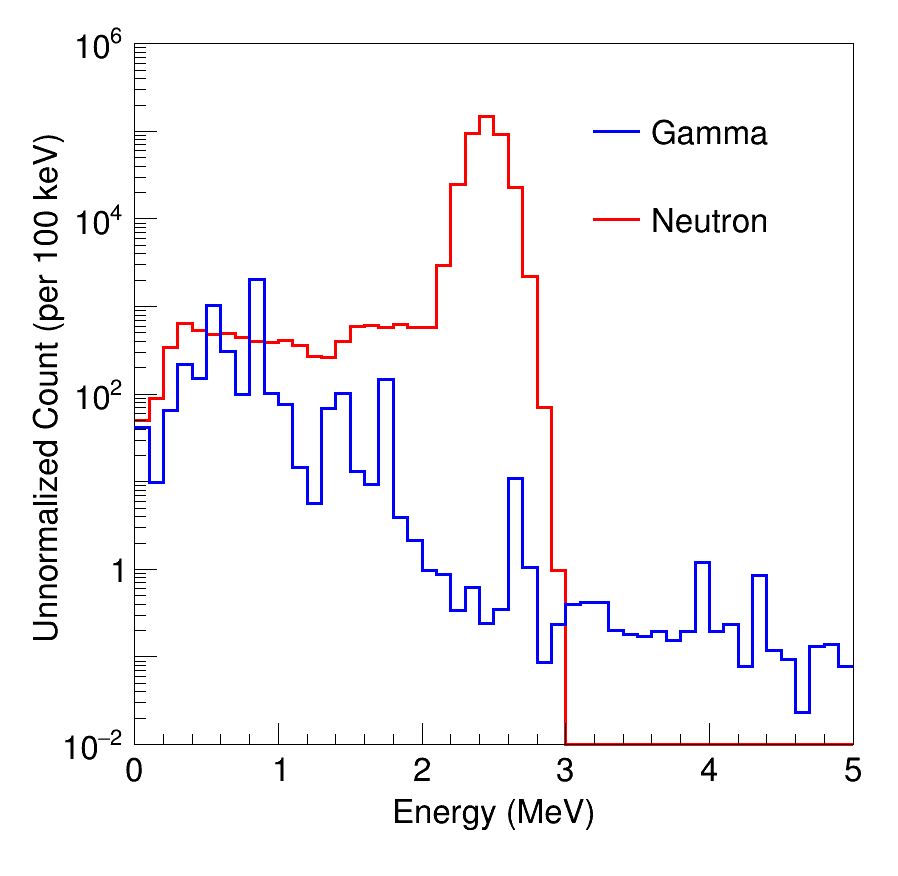
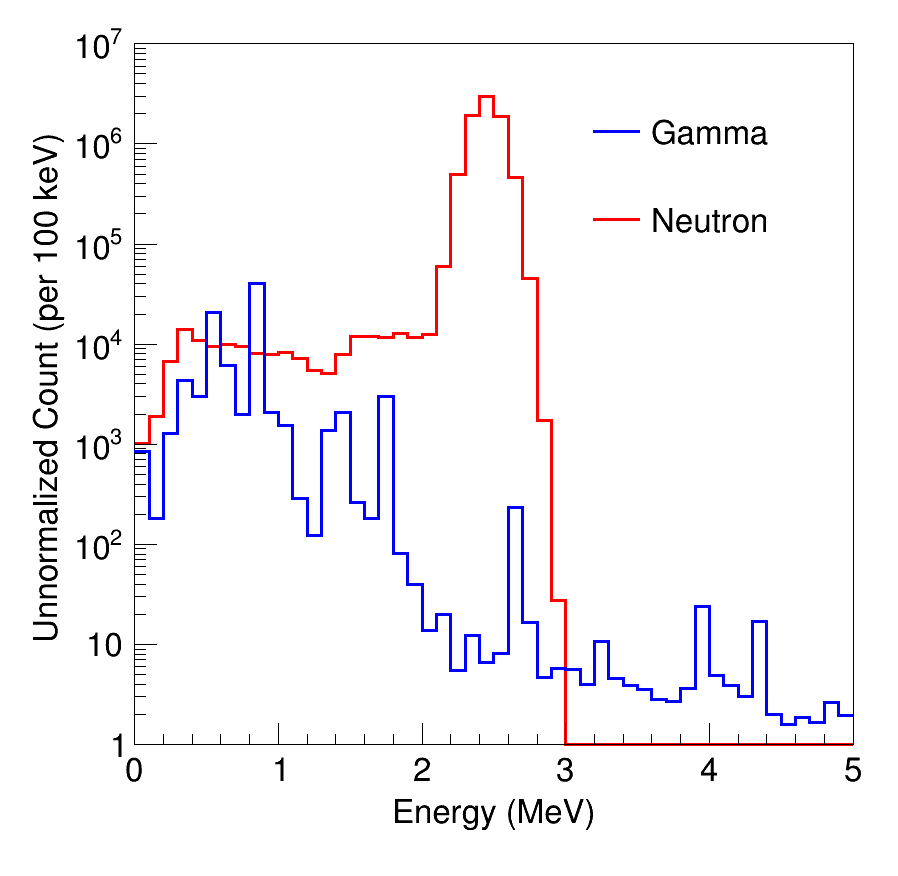
update  ana script

diff --git a/neutronAna/neutronInput/neutron.C b/neutronAna/neutronInput/neutron.C
@@ -1,27 +1,31 @@
 void neutron() {
-    auto file = TFile::Open(Form("Neutron.root"), "READ");
-    auto tree = (TTree*) file->Get("NeutronNTuple");
+//    auto file = TFile::Open(Form("Neutron.root"), "READ");
+//    auto tree = (TTree*) file->Get("NeutronNTuple");
+//
+//
+//    TH1D* ShieldedNeutrons = new TH1D(Form("NeutronSpectrum"), ";Energy (MeV); Unnormalized Count (per 100 keV)", 50, 0, 5);
+//    TH1D* ShieldedGammas = new TH1D(Form("GammaSpectrum"), ";Energy (MeV); Unnormalized Count (per 100 keV)", 50, 0, 5);
+//
+//    double pdgCode;
+//    double energy;
+//    double weight;
+//    tree->SetBranchAddress("PDGCode", &pdgCode);
+//    tree->SetBranchAddress("Energy", &energy);
+//    tree->SetBranchAddress("Weight", &weight);
+//    for (int i = 0; i < tree->GetEntries(); ++i) {
+//        tree->GetEntry(i);
+//        if (pdgCode == 2112) {
+//            ShieldedNeutrons->Fill(energy, weight);
+//        } else if (pdgCode == 22) {
+//            ShieldedGammas->Fill(energy, weight);
+//        } else {
+//            continue;
+//        }
+//    }
 
-
-    TH1D* ShieldedNeutrons = new TH1D(Form("NeutronSpectrum"), ";Energy (MeV); Unnormalized Count (per 100 keV)", 50, 0, 5);
-    TH1D* ShieldedGammas = new TH1D(Form("GammaSpectrum"), ";Energy (MeV); Unnormalized Count (per 100 keV)", 50, 0, 5);
-
-    double pdgCode;
-    double energy;
-    double weight;
-    tree->SetBranchAddress("PDGCode", &pdgCode);
-    tree->SetBranchAddress("Energy", &energy);
-    tree->SetBranchAddress("Weight", &weight);
-    for (int i = 0; i < tree->GetEntries(); ++i) {
-        tree->GetEntry(i);
-        if (pdgCode == 2112) {
-            ShieldedNeutrons->Fill(energy, weight);
-        } else if (pdgCode == 22) {
-            ShieldedGammas->Fill(energy, weight);
-        } else {
-            continue;
-        }
-    }
+    TFile* file = TFile::Open(Form("Out.root"), "READ");
+    TH1D* ShieldedNeutrons = (TH1D*) file->Get("NeutronSpectrum");
+    TH1D* ShieldedGammas = (TH1D*) file->Get("GammaSpectrum");
 
     gStyle->SetOptStat(0);
 
@@ -41,7 +45,7 @@ void neutron() {
     ShieldedNeutrons->SetTitleOffset(1.50, "Y");
     ShieldedNeutrons->SetTitleSize(0.04, "XY");
     ShieldedNeutrons->SetNdivisions(505, "XY");
-    ShieldedNeutrons->GetYaxis()->SetRangeUser(0, 2E5);
+    ShieldedNeutrons->GetYaxis()->SetRangeUser(0, 4E6);
     ShieldedNeutrons->GetXaxis()->SetMaxDigits(2);
     ShieldedNeutrons->GetYaxis()->SetMaxDigits(3);
 
@@ -58,8 +62,11 @@ void neutron() {
     c->SaveAs(Form("ShieldedSpectrum.pdf"));
     c->SaveAs(Form("ShieldedSpectrum.png"));
 
-    ShieldedNeutrons->GetYaxis()->SetRangeUser(1E-2, 1E6);
+    ShieldedNeutrons->GetYaxis()->SetRangeUser(1E0, 1E7);
     c->SetLogy();
     c->SaveAs(Form("ShieldedSpectrumLogy.pdf"));
     c->SaveAs(Form("ShieldedSpectrumLogy.png"));
+
+    std::cout << ShieldedNeutrons->Integral() << std::endl;
+    std::cout << ShieldedGammas->Integral() << std::endl;
 }

diff --git a/main.cpp b/main.cpp
@@ -43,7 +43,7 @@ int main(int argc, char **argv) {
     runManager->SetUserInitialization(physicsList);
     runManager->SetUserInitialization(new ActionInitialization(detectorConstruction, energyInkeV));
 
-    runManager->SetNumberOfThreads((G4int) std::thread::hardware_concurrency() - 4);
+//    runManager->SetNumberOfThreads((G4int) std::thread::hardware_concurrency() - 4);
     runManager->Initialize();
     detectorConstruction->CreateImportanceStore();
 
